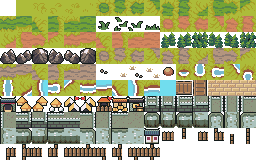
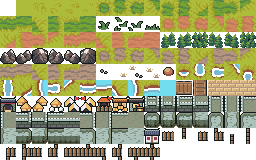
Add CREDITS.md and the asset pipeline README; opaque cliff tiles
CREDITS.md lists every third-party source with author, licence, source URL,
pinned hash and the outputs using it, the CC BY 4.0 attribution for Toen's
pack and the note that no KOEI material is included. The README explains
how to fetch, rebuild, check and preview the pack and lists the terrain,
unit, icon and SFX keys for content authors. Cliffs now sit on plain ground
and the terrain build rejects tiles whose bottom layer is not opaque.

diff --git a/tools/assets/build_terrain.py b/tools/assets/build_terrain.py
@@ -256,8 +256,8 @@ def river_auto(k: Kit) -> dict[int, Image.Image]:
 
 
 def _rock_texture(x: int, y: int) -> str:
-    h = hash2(x // 2, y, 7) % 24
-    return "#f2eaf1" if h == 0 else "#8d977f" if h in (1, 2, 3) else "#abc2bc"
+    h = hash2(x // 2, y, 7) % 16
+    return "#8d977f" if h in (0, 1) else "#abc2bc"
 
 
 def cliff_auto(k: Kit) -> dict[int, Image.Image]:
@@ -560,7 +560,7 @@ def tiles(k: Kit) -> list[Tile]:
         Tile("treasury", [paving, Layer(cells=treasury_cells())], "treasure house with a gold coin sign"),
         Tile("river", [water], "water with foam and banks"),
         Tile("wall", [Layer(auto=wall_auto(), connect=WALLS)], "crenellated stone wall, joins gates"),
-        Tile("cliff", [Layer(auto=cliff_auto(k), connect=["cliff"])], "raised rock with a front face"),
+        Tile("cliff", [plain, Layer(auto=cliff_auto(k), connect=["cliff"])], "raised rock with a front face"),
         Tile("house", [plain, Layer(cells=house_cells())], "town house with a tiled roof"),
         Tile("fence", [plain, Layer(auto=fence_auto(), connect=["fence"])], "wooden palisade"),
     ]
@@ -585,6 +585,11 @@ def build_terrain(src: Sources, pack: Path) -> list[str]:
     missing = [t for t in TERRAIN_IDS if t not in {tile.key for tile in all_tiles}]
     if missing:
         raise ValueError(f"terrain ids without a tile: {missing}")
+    for tile in all_tiles:
+        ground = tile.layers[0]
+        cells = list(ground.auto.values()) if ground.auto is not None else ground.cells
+        if any(c.getchannel("A").getextrema() != (255, 255) for c in cells):
+            raise ValueError(f"tiles.{tile.key}: the bottom layer must be opaque in every variant")
     for tile in all_tiles:
         lines.append(f"\n# {tile.comment}\n[tiles.{tile.key}]\nlayers = [\n")
         for layer in tile.layers:

diff --git a/tools/assets/preview.py b/tools/assets/preview.py
@@ -3,7 +3,7 @@
 
 Writes into tools/assets/.cache/preview/ (or --out):
   map.png     a sample battle map drawn with gfx/tiles/terrain.toml, units of every class and
-              side standing on it, FX and flags, at 1x and 2x
+              side standing on it and the side banners, at 1x and 2x
   tiles.png   every tile key: its variants and all 16 autotile masks
   units.png   every unit sheet (all frames) of every side
 
@@ -20,7 +20,7 @@ from pathlib import Path
 
 from PIL import Image, ImageDraw
 
-from assetlib import CACHE_DIR, PACK_DIR, paste
+from assetlib import CACHE_DIR, PACK_DIR, hash2, paste
 from tilemap import Tileset, parse_map, render
 
 SIDES = ("player", "ally", "enemy")
@@ -75,9 +75,9 @@ def map_preview(pack: Path, out: Path) -> None:
     if units_path.exists():
         specs, sheets = load_units(pack)
         keys = list(specs)
-        # passable spots for a parade of every class: player row, ally row, enemy row
+        # passable spots spread over the map (stable pseudo-random order), one unit per class and side
         spots = [(x, y) for y in range(len(grid)) for x in range(len(grid[0])) if grid[y][x] in ("plain", "grass")]
-        spots.sort(key=lambda p: (p[1], p[0]))
+        spots.sort(key=lambda p: hash2(p[0], p[1], 5))
         chosen: list[tuple[int, int]] = []
         for p in spots:
             if all(abs(p[0] - q[0]) + abs(p[1] - q[1]) >= 2 for q in chosen):

diff --git a/tools/assets/README.md b/tools/assets/README.md
@@ -1,0 +1,164 @@
+# Asset pipeline
+
+This directory rebuilds every graphic, sound effect and font of the base pack (`data/base`) from
+pinned, openly licensed sources. The generated files are committed (they are the game's runtime
+data); the downloaded archives are not. Conventions for all outputs are in
+[docs/ASSETS.md](../../docs/ASSETS.md); authors and licences are in [CREDITS.md](../../CREDITS.md).
+
+Portraits (`gfx/portraits`), drama backgrounds (`gfx/bg`) and music (`bgm`) are not produced here.
+
+## Rebuilding
+
+Requirements: Python 3.12+ and [Pillow](https://pypi.org/project/pillow/) (`pip install pillow`).
+
+```sh
+python tools/assets/fetch.py            # download sources into tools/assets/.cache/ and verify SHA-256
+python tools/assets/build.py            # regenerate everything under data/base
+python tools/assets/build.py --check    # rebuild into a temp dir and compare with the committed files
+python tools/assets/build.py units      # selected steps (steps they depend on run too)
+python tools/assets/preview.py          # review sheets in tools/assets/.cache/preview/
+```
+
+The build is deterministic: the same sources give byte-identical outputs, so `--check` proves the
+committed pack matches the pipeline. A full build fails if a source pinned in `sources.toml` is not
+used by any step, which keeps `sources.toml` and `CREDITS.md` honest.
+
+### Sources and the Ninja Adventure download
+
+`sources.toml` pins each source's URL, size, SHA-256 and licence. `fetch.py` refuses a file whose
+size or hash differs and removes partial downloads. The Ninja Adventure pack has no stable URL:
+`fetch.py` follows the itch.io "name your own price" flow (read the page's `csrf_token`, POST it to
+`<page>/file/16981275`, GET the short-lived signed URL from the JSON answer). If itch.io changes that
+flow, download the zip by hand from <https://pixel-boy.itch.io/ninja-adventure-asset-pack> and save it
+as `.cache/NinjaAdventure-AssetPack.zip`; `fetch.py` then only verifies it. The archive.org mirror
+holds an older (2021) version that lacks files we use, so it cannot replace the pinned zip.
+
+To add or update a source: pin it in `sources.toml` (size and SHA-256), use it from a build step,
+credit it in `CREDITS.md` with the outputs that use it, and rebuild.
+
+Lint and format the scripts with `uvx ruff check --no-cache tools/assets` and
+`uvx ruff format --no-cache tools/assets` (settings in `ruff.toml`).
+
+## Layout
+
+| file | role |
+|---|---|
+| `sources.toml` | pinned third-party archives |
+| `fetch.py` | download + verification |
+| `build.py` | step runner (`terrain`, `units`, `fonts`, `sfx`, `fx`, `icons`, `flags`, `title`) and `--check` |
+| `assetlib.py` | source access (zip members), recolouring, atlas and deterministic PNG/TOML writers |
+| `art.py` | pixel art drawn for this project, as text (one character per pixel) in the NA palette; team ramps |
+| `build_terrain.py` | `gfx/tiles/terrain.png` + `terrain.toml` |
+| `build_units.py` | `gfx/units/<class>_<side>.png` + `units.toml` |
+| `build_fx.py` | `gfx/fx/<key>.png` + `fx.toml` |
+| `build_ui.py` | `gfx/ui/icons.png` + `icons.toml`, `gfx/ui/flags.png` |
+| `build_title.py` | `gfx/ui/title.png` (composed from the generated tiles, units and flags) |
+| `build_audio.py` | `sfx/<key>.wav`, `fonts/` |
+| `tilemap.py` | reference renderer of `terrain.toml` (used by the title and the previews) |
+| `preview.py` | review sheets: sample map with every unit, tile catalogue, unit sheets |
+
+## Terrain (`gfx/tiles/terrain.toml`)
+
+One tile key per canonical terrain id. Ground layers are 4-bit autotiles; objects are variant cells.
+
+| key | look | autotile `connect` |
+|---|---|---|
+| `plain` | light grass with tufts | – |
+| `grass` | dark meadow patches | grass, forest, mountain |
+| `forest` | pine groves on meadow | ground: grass, forest, mountain |
+| `mountain` | rocky, snow-capped peaks on meadow | ground: grass, forest, mountain |
+| `road` | dirt road | road, bridge, gate, village, barracks, fort |
+| `wasteland` | pale stony ground, stones and dry tufts | wasteland |
+| `river` | water with foam and earthen banks | river, bridge |
+| `bridge` | wooden deck over water, turned across the river | water: river, bridge; deck: river |
+| `castle` | flagstone floor | – |
+| `gate` | gate tower over an open arch on flagstones | – |
+| `wall` | crenellated stone wall with a south face | wall, gate |
+| `cliff` | raised rock with a front face | cliff |
+| `village` | thatched farmhouses on a dirt yard | yard: village, barracks, fort, road |
+| `barracks` | army tents and a pennant | yard: village, barracks, fort, road |
+| `fort` | watchtower behind a palisade | yard: village, barracks, fort, road |
+| `granary` | storehouse (brown tiles) with straw rice bales | – |
+| `treasury` | storehouse (slate tiles) with a gold coin sign and a chest | – |
+| `house` | town house with a grey tiled roof (impassable) | – |
+| `fence` | wooden palisade | fence |
+
+A map should keep rivers at least two tiles wide where they bend: the 16-cell autotiles have no inner
+corners, so a one-tile diagonal step shows a notch.
+
+## Units (`gfx/units`)
+
+All sheets: 4 columns (down, up, left, right) x 6 rows (walk 0-3, attack 4, hurt 5); the hurt pose
+is NA's crouch knocked back one pixel. Frames are 24x24 with `anchor = [12, 23]` (the chariot is
+32x24, anchor `[16, 23]`), so units overhang the tile only upwards and sideways. Team colours:
+`player` blue, `ally` green, `enemy` red (ramps in `art.py`).
+
+| class | look (Ninja Adventure unless noted) | weapon / load |
+|---|---|---|
+| `short_infantry` | straw-hat foot soldier (Samurai) | sword |
+| `long_infantry` | armoured soldier (GladiatorBlue), armour in team colour | spear |
+| `chariot` | topknot warrior in a two-wheeled chariot drawn by a bay horse | spear with pennant |
+| `light_cavalry` | topknot rider (SamuraiBlue) on a bay horse, saddle cloth | spear with pennant |
+| `heavy_cavalry` | helmeted rider (Knight) on a black horse | lance with pennant |
+| `guard_cavalry` | gold-armoured rider (KnightGold) on a white horse | halberd with pennant |
+| `archer` | hunter | bow |
+| `crossbow` | officer in a lacquered hat (SamuraiRed) | crossbow (drawn) |
+| `catapult` | ballista (MiniWorld), cords in team colour | – |
+| `bandit` | racoon-masked thief | club |
+| `brigand` | masked ruffian in a straw hat | axe |
+| `outlaw` | hooded swordsman (NinjaDark) | katana |
+| `martial` | martial artist with headband | fists |
+| `tribe` | tribesman in a beast-hood (CaveLion) | bone club |
+| `beast` | beast tamer (LionBoy) riding a bear | whip |
+| `supply` | official in a white hat (Inspector) | rice bale |
+| `band` | official in a black hat (Noble) | war drum |
+| `sorcerer` | white-haired sage (Master) | wand |
+| `civilian` | villager | – |
+
+## Icons (`gfx/ui/icons.toml`)
+
+Engine keys (docs/ASSETS.md): `gold`, `weather_clear`, `weather_cloudy`, `weather_rain`, `hp`, `mp`,
+`morale`, `atk`, `def`, `move`, `exp`, `weapon`, `armor`, `accessory`, `consumable`, `fire`, `water`,
+`earth`, `heal`, `morale_up`, `morale_down`, `confuse`, `lord`, `commander`.
+
+Item icons for content authors (use the key as an item's icon):
+
+| key | picture | typical items |
+|---|---|---|
+| `item_sword` | sword | swords |
+| `item_blade` | broad blade | great swords, glaives |
+| `item_spear` | spear | spears, long spears (class-up to long infantry) |
+| `item_halberd` | halberd / trident | halberds (戟) |
+| `item_axe` | axe | axes |
+| `item_bow` | bow | bows |
+| `item_crossbow` | crossbow | crossbows (class-up to crossbowmen) |
+| `item_armor` | armour | armour, horse armour |
+| `item_book` | book | manuals, strategy books, class-change books (指南書) |
+| `item_horse` | horse | horses |
+| `item_bean` | bean | beans (small heal) |
+| `item_wheat` | wheat sheaf | wheat |
+| `item_rice` | rice ball | rice |
+| `item_wine` | gourd | wine |
+| `item_peach` | peach | peaches |
+| `item_medicine` | medicine box | medicines |
+| `item_scroll` | plain scroll | generic strategy scrolls |
+| `item_scroll_fire` | fire scroll | fire strategy books |
+| `item_scroll_water` | water scroll | water strategy books |
+| `item_scroll_earth` | earth scroll | earth strategy books |
+| `item_scroll_confuse` | scroll with a question mark | confusion strategy books |
+| `item_classup` | golden cup | class-up items |
+| `item_seal` | jade seal | the imperial seal (玉璽) and other seals |
+| `item_edict` | scroll | imperial edicts |
+| `item_report` | letter | reports, letters |
+| `item_gold` | gold ingot | gold treasures |
+| `item_silver` | silver ingot | silver treasures |
+| `item_gem` | gem | jewels |
+| `item_chest` | chest | treasure chests |
+| `item_bag` | money bag | money |
+
+## Sound effects (`sfx`)
+
+All from Ninja Adventure, converted to 16-bit mono WAV and trimmed (`build_audio.py` lists the
+source file of each key): `cursor`, `confirm`, `cancel`, `error`, `step`, `hit`, `hit_heavy`,
+`arrow`, `fire`, `water`, `rock`, `heal`, `morale_up`, `morale_down`, `confuse`, `levelup`,
+`retreat`, `treasure`, `phase`, `victory`, `defeat`.

diff --git a/CREDITS.md b/CREDITS.md
@@ -1,0 +1,81 @@
+# Credits
+
+Eiketsuden Reloaded is an original reimplementation. **No material from KOEI / KOEI TECMO — no
+graphics, music, sound, text, data or code of the original game — is included in this repository
+or in its releases.** The base pack (`data/base`) is built only from the openly licensed sources
+below and from art made for this project.
+
+The engine code is licensed under GPL-3.0-or-later. Media files keep the licence of their source,
+listed here. Every file under `data/base/gfx`, `data/base/sfx` and `data/base/fonts` is generated by
+the asset pipeline in [`tools/assets/`](tools/assets/README.md), which pins each source archive by URL
+and SHA-256 (`tools/assets/sources.toml`) so the pack can be rebuilt byte for byte.
+
+## Third-party assets
+
+### Ninja Adventure – Asset Pack
+
+* **Author:** Pixel-Boy and AAA
+* **Licence:** [CC0 1.0 Universal](https://creativecommons.org/publicdomain/zero/1.0/) (public domain dedication)
+* **Source:** <https://pixel-boy.itch.io/ninja-adventure-asset-pack> (Update #8, 2026-03-29,
[1 lines of base64/hex data omitted]
+* **Used in:**
+  * `gfx/tiles/terrain.png` — grass, dirt road, wasteland, water and cliff tiles, ground details
+  * `gfx/units/*.png` — every character (bodies, poses), the horse and the bear, weapons
+  * `gfx/fx/*.png` — all battle effects (some recoloured)
+  * `gfx/ui/icons.png` — item, weapon, scroll, potion and food icons
+  * `gfx/ui/flags.png` — the animated banner, recoloured per side
+  * `gfx/ui/title.png` — composed from the tiles, units and banners above
+  * `sfx/*.wav` — all sound effects (from `Audio/Sounds` and `Audio/Jingles`, trimmed to mono)
+* **Changes:** recoloured to team colours, recomposed (riders on mounts, weapon overlays), trimmed.
+  Attribution is not required by CC0; we give it gladly.
+
+### Free 16x16 Mini World Sprites
+
+* **Author:** Shade (Merchant Shade)
+* **Licence:** [CC0 1.0 Universal](https://creativecommons.org/publicdomain/zero/1.0/)
+* **Source:** <https://opengameart.org/content/miniworld-sprites>
[1 lines of base64/hex data omitted]
+* **Used in:** `gfx/units/catapult_*.png` (the ballista), `gfx/ui/icons.png` (`atk`, `def`, `heal`,
+  `morale_up`, `morale_down`, `confuse`), `gfx/ui/title.png`
+* **Changes:** colours mapped onto the Ninja Adventure palette, cords recoloured per side.
+
+### Toen's Medieval Strategy Sprite Pack v1.0 (16x16)
+
+* **Author:** Andre Mari Coppola (Toen) — <http://toen.itch.io/toens-medieval-strategy>
+* **Licence:** [Creative Commons Attribution 4.0 International (CC BY 4.0)](https://creativecommons.org/licenses/by/4.0/)
+* **Source:** <https://opengameart.org/content/toens-medieval-strategy-sprite-pack-v10-16x16>
+  (`Toen's Medieval Strategy Sprite Pack v.1.0  (16x16).zip`,
[1 lines of base64/hex data omitted]
+* **Used in:** `gfx/tiles/terrain.png` (the pine groves of `forest` and the peaks of `mountain`),
+  `gfx/ui/title.png`
+* **Attribution (CC BY 4.0):** "Toen's Medieval Strategy Sprite Pack" by Andre Mari Coppola (Toen),
+  <http://toen.itch.io/toens-medieval-strategy>, licensed under
+  [CC BY 4.0](https://creativecommons.org/licenses/by/4.0/). **Changes were made:** the tree and
+  mountain tiles were recoloured to the Ninja Adventure palette, given a dark outline, mirrored and
+  combined with other tiles. This project is not endorsed by the author.
+
+### Chinese Icons
+
+* **Author:** Pixel Archer
+* **Licence:** [CC0 1.0 Universal](https://creativecommons.org/publicdomain/zero/1.0/)
+* **Source:** <https://opengameart.org/content/chinese-icons>
[1 lines of base64/hex data omitted]
+* **Used in:** `gfx/ui/icons.png` (`gold`, `item_gold`, `item_silver`, `item_gem`, `item_peach`, `item_edict`)
+
+### Galmuri
+
+* **Author:** Lee Minseo (quiple) — <https://github.com/quiple/galmuri>
+* **Licence:** [SIL Open Font License 1.1](https://openfontlicense.org/); the full licence text ships
+  as `data/base/fonts/OFL.txt`
+* **Source:** <https://github.com/quiple/galmuri/releases/download/v2.40.4/Galmuri-v2.40.4.zip>
[1 lines of base64/hex data omitted]
+* **Used in:** `fonts/Galmuri11.ttf`, `fonts/Galmuri9.ttf` (unmodified)
+
+## Art made for this project
+
+The pixel art drawn for Eiketsuden Reloaded — the sprites defined as text in
+`tools/assets/art.py` (weather, stat and item icons, village huts, houses, tents, watchtower,
+storehouses, city gate, the horse's back view, chariot parts, saddle cloths, pennants, drum, rice
+bales) and the walls, palisades, bridges and paving generated by `tools/assets/build_terrain.py` —
+is dedicated to the public domain under [CC0 1.0](https://creativecommons.org/publicdomain/zero/1.0/).
+It uses the Ninja Adventure colour palette.
